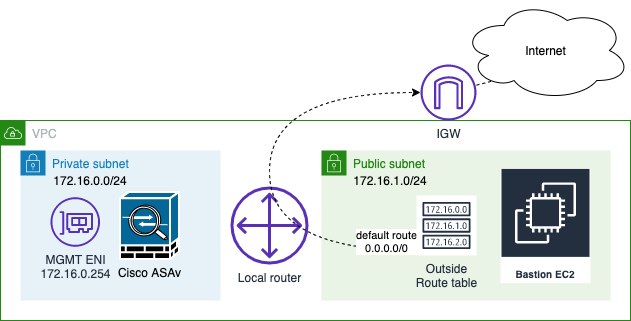
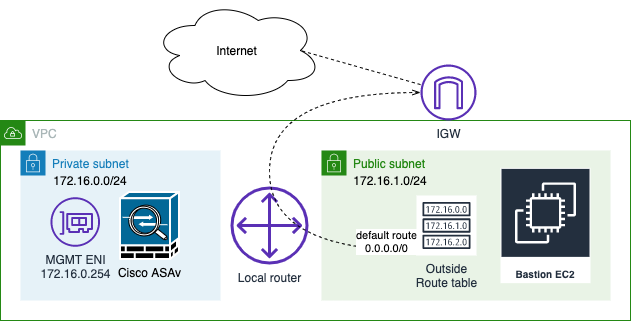
Added SSH forwarding path

diff --git a/docs/asa.rst b/docs/asa.rst
@@ -142,6 +142,10 @@ Let us setup the SSH forwarding agent so that we can login to the ASAv via the B
    :width: 600px
    :alt: SSH forwarding agent
 
+.. image:: ASA-SSH-forwarding-path.png
+   :width: 600px
+   :alt: SSH forwarding path
+
 Once the SSH key is cached, we can login direct to the ASAv via the Bastion host:
 
 .. image:: ASAv-login.png
